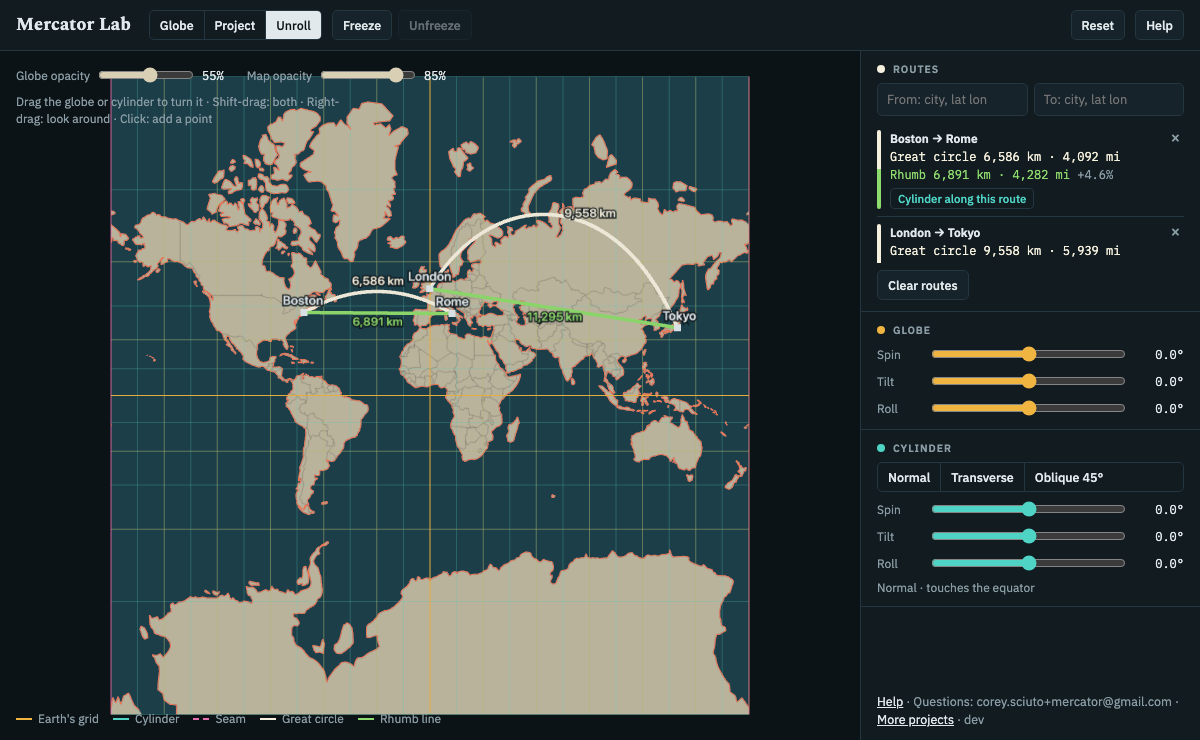
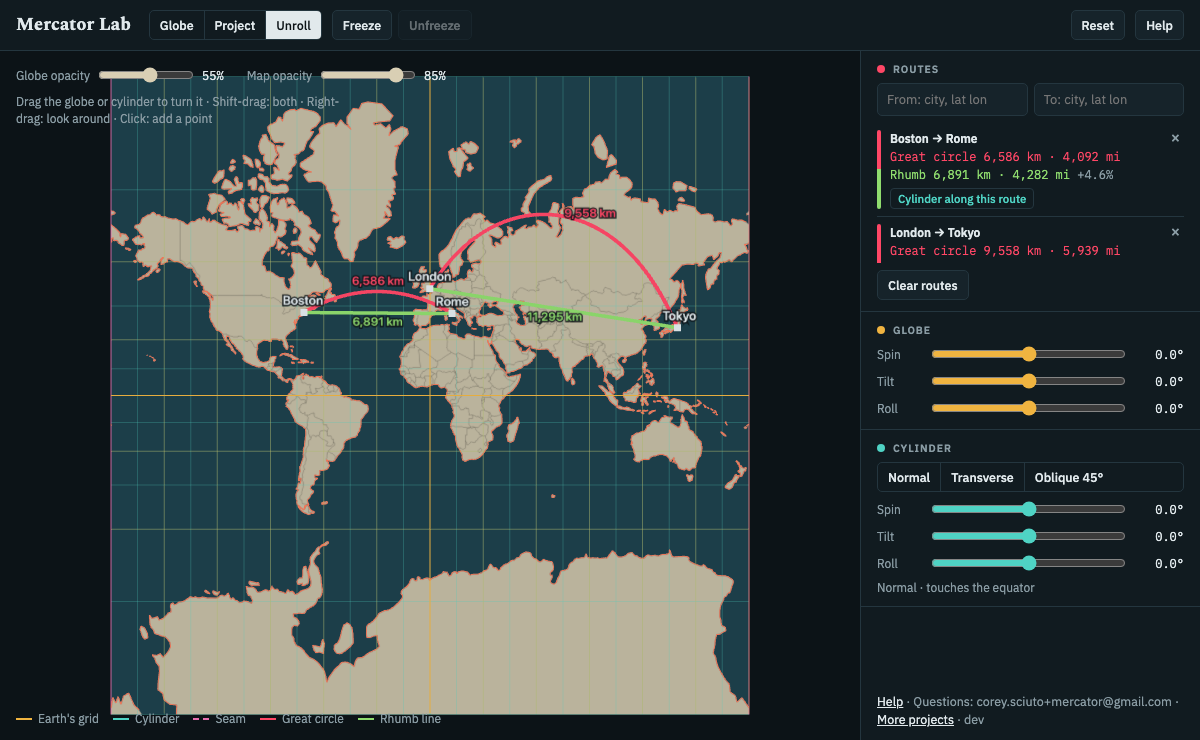
Great circle in red so it stands out on the light land

diff --git a/index.html b/index.html
@@ -35,7 +35,7 @@ body { margin: 0; }
   --b: #ff7a59;
   --a: #9aa6ee;
   --land: #d9cfb4;
-  --gcl: #f6f0de;
+  --gcl: #ff4766;
   --rhl: #8fdc6e;
   --f-display: "Spectral", Georgia, serif;
   --f-body: "IBM Plex Sans", system-ui, sans-serif;
